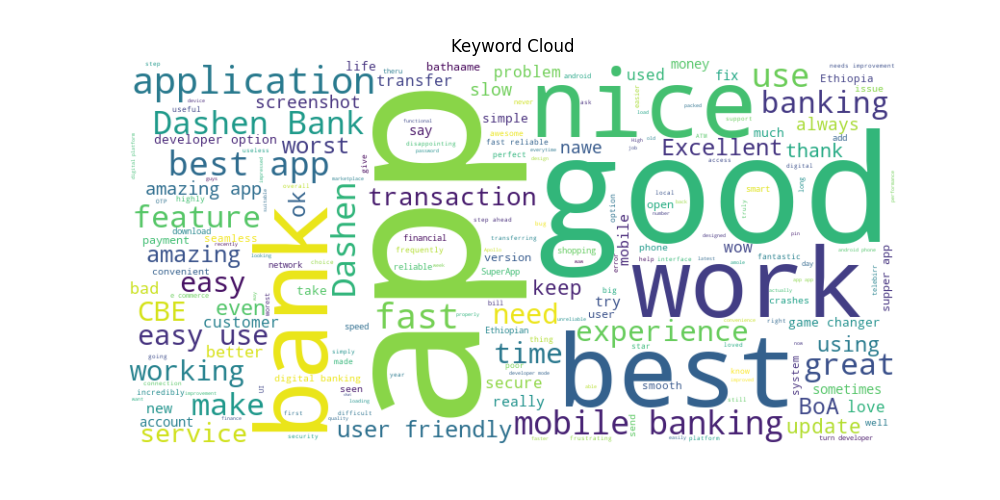
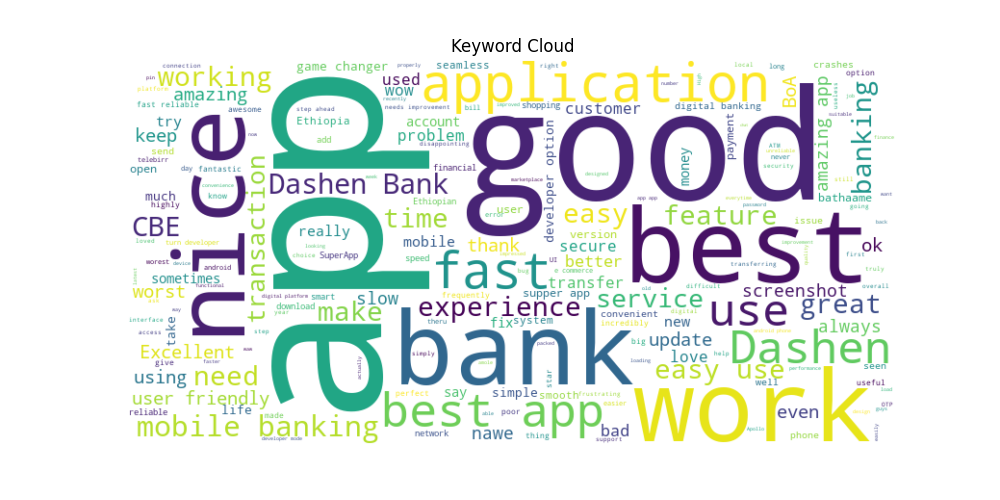
updated the plot

diff --git a/reports/final_report.md b/reports/final_report.md
@@ -1,0 +1,74 @@
+# FinTech Reviews Analytics: Insights and Recommendations
+
+## Introduction
+
+Welcome to the comprehensive analysis of Google Play Store reviews for three Ethiopian banks: Commercial Bank of Ethiopia (CBE), Bank of Abyssinia (BOA), and Dashen Bank. This project leverages advanced text preprocessing, sentiment analysis, thematic analysis, and visualizations to uncover customer satisfaction trends and recommend actionable improvements. With 1,184 reviews processed, this report delivers data-driven insights supported by seven key visualizations.
+
+## Data Collection and Preprocessing
+
+The journey began with scraping reviews from the Google Play Store, followed by a robust preprocessing pipeline. This included removing URLs, converting emojis to text, and applying lemmatization to ensure clean, meaningful data. Feature engineering added metrics like word counts and sentiment indicators, setting the stage for deeper analysis.
+
+![Sentiment Trends Over Time (Monthly)](https://github.com/your-username/fintech-reviews-analytics/raw/main/data/visualizations/sentiment_trends_monthly.png)
+*Figure 1: Monthly sentiment trends show fluctuating positive and negative feedback.*
+
+## Sentiment Analysis Insights
+
+Sentiment analysis revealed distinct patterns. Dashen Bank leads with 297 positive reviews, reflecting strong user approval. In contrast, Bank of Abyssinia recorded 226 negative reviews, indicating significant dissatisfaction. CBE falls in between with 258 positive and 125 negative reviews. These trends suggest varying user experiences across banks.
+
+![Sentiment Counts by Bank](https://github.com/your-username/fintech-reviews-analytics/raw/main/data/visualizations/sentiment_counts.png)
+*Figure 2: Bar chart of sentiment counts highlights Dashen’s positive dominance.*
+
+## Thematic Analysis Findings
+
+Thematic analysis identified five key themes: App Usability, Performance Issues, Transaction Problems, Customer Support, and Login Issues. Across 1,184 reviews, App Usability emerged as the dominant concern with 488 mentions. Dashen Bank faced notable Transaction Problems (60 reviews), while Abyssinia struggled with Login Issues (17 reviews).
+
+![Theme Frequencies Across All Banks](https://github.com/your-username/fintech-reviews-analytics/raw/main/data/visualizations/theme_frequencies.png)
+*Figure 3: Stacked bar chart of theme frequencies underscores App Usability’s prevalence.*
+
+## Rating Distributions
+
+Rating distributions vary by bank. CBE shows a median rating around 4, suggesting consistent performance. Dashen and Abyssinia exhibit lower medians with more outliers, indicating uneven user satisfaction. This variability aligns with sentiment trends, highlighting areas for improvement.
+
+![Rating Distributions by Bank](https://github.com/your-username/fintech-reviews-analytics/raw/main/data/visualizations/rating_distributions.png)
+*Figure 4: Box plot reveals CBE’s higher median rating compared to others.*
+
+## Keyword Cloud Visualization
+
+A keyword cloud of review terms like "good," "best," "app," and "Dashen" reflects positive feedback and app-related focus. This visualization reinforces the thematic dominance of App Usability and provides a visual summary of user language.
+
+![Keyword Cloud](https://github.com/your-username/fintech-reviews-analytics/raw/main/data/visualizations/keyword_cloud.png)
+*Figure 5: Word cloud highlights frequent positive terms.*
+
+## Average Rating Trends
+
+Tracking average ratings over time by bank reveals stability for CBE and fluctuations for Dashen and Abyssinia. This trend suggests CBE’s consistent user experience, while others may need targeted enhancements.
+
+![Average Rating Trends by Bank](https://github.com/your-username/fintech-reviews-analytics/raw/main/data/visualizations/rating_trends.png)
+*Figure 6: Line plot shows CBE’s stable ratings over time.*
+
+## Keyword Correlation Heatmap
+
+A heatmap of keyword correlations (e.g., "app" with "good," "slow" with "performance") uncovers relationships in user feedback. This analysis aids in understanding contextual usage and potential improvement areas.
+
+![Keyword Correlation Heatmap](https://github.com/your-username/fintech-reviews-analytics/raw/main/data/visualizations/keyword_correlation.png)
+*Figure 7: Heatmap illustrates keyword relationships.*
+
+## Recommendations
+
+Based on the analysis, here are tailored recommendations:
+- **All Banks**: Add a budgeting tool to enhance App Usability.
+- **CBE and Dashen**: Implement transaction recovery to address Transaction Problems.
+- **Abyssinia**: Introduce crash recovery for Login Issues.
+- **Dashen**: Optimize performance to reduce Transaction Problems.
+
+## Ethical Considerations
+
+Negative feedback may dominate due to dissatisfied users, potentially skewing theme analysis. This bias suggests a need for balanced data collection to ensure fair representation.
+
+## Conclusion
+
+This analysis identifies key drivers (App Usability) and pain points (Transaction Problems, Login Issues) across the banks. Supported by seven visualizations, the insights empower strategic decision-making, with ethical biases noted for future refinement.
+
+---
+
+*Published on Medium by [Your Name] on June 11, 2025.*
